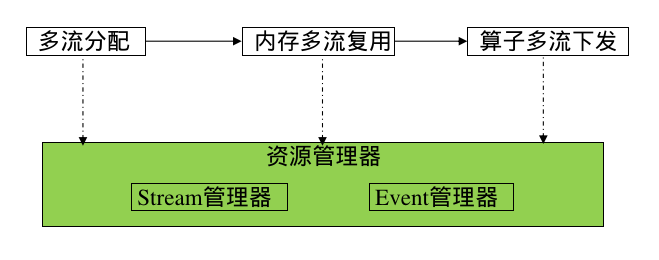
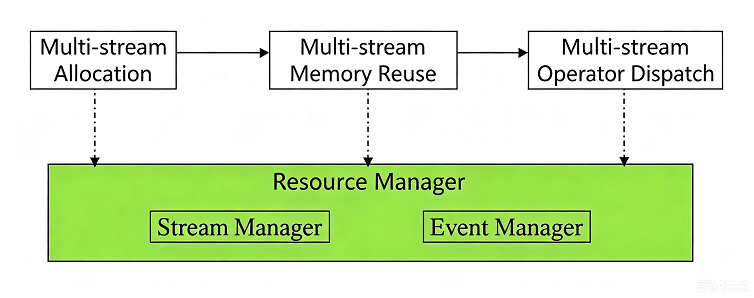
update en images

diff --git a/docs/mindspore/source_en/features/parallel/pipeline_parallel.md b/docs/mindspore/source_en/features/parallel/pipeline_parallel.md
@@ -26,7 +26,7 @@ Pipeline parallel is the splitting of operators in a neural network into multipl
 
 As shown in Figure 1, the network of 4 layers of MatMul is split into 4 stages and distributed to 4 devices. In forward calculations, each machine sends the result to the next machine through the communication operator after calculating the MatMul on the machine, and at the same time, the next machine receives (Receive) the MatMul result of the previous machine through the communication operator, and starts to calculate the MatMul on the machine; In reverse calculation, after the gradient of the last machine is calculated, the result is sent to the previous machine, and at the same time, the previous machine receives the gradient result of the last machine and begins to calculate the reverse of the current machine.
 
-![](https://mindspore-website.obs.cn-north-4.myhuaweicloud.com/website-images/master/docs/mindspore/source_zh_cn/features/parallel/images/pipeline_parallel_image_0_zh.png)
+![](images/pipeline_parallel_image_0.png)
 
 *Figure 1: Schematic diagram of graph splitting in pipeline parallel*
 
@@ -36,7 +36,7 @@ Simply splitting the model onto multiple devices does not bring about a performa
 
 As shown in Figure 2. The small batches are cut into 4 micro-batches, and the 4 micro-batches are executed on 4 groups to form a pipeline. The gradient aggregation of the micro-batch is used to update the parameters, where each device only stores and updates the parameters of the corresponding group. where the white ordinal number represents the index of the micro-batch.
 
-![](https://mindspore-website.obs.cn-north-4.myhuaweicloud.com/website-images/master/docs/mindspore/source_zh_cn/features/parallel/images/pipeline_parallel_image_1_zh.png)
+![](images/pipeline_parallel_image_1.png)
 
 *Figure 2: Schematic diagram of a pipeline parallel execution timeline with MicroBatch*
 
@@ -46,7 +46,7 @@ In MindSpore's pipeline parallel implementation, the execution order has been ad
 
 As shown in Figure 3, the reverse of the MicroBatch numbered 0 is performed immediately after its forward execution, so that the memory of the intermediate result of the numbered 0 MicroBatch is freed earlier (compared to Figure 2), thus ensuring that the peak memory usage is lower than in the way of Figure 2.
 
-![](https://mindspore-website.obs.cn-north-4.myhuaweicloud.com/website-images/master/docs/mindspore/source_zh_cn/features/parallel/images/pipeline_parallel_image_2_zh.png)
+![](images/pipeline_parallel_image_2.png)
 
 *Figure 3: MindSpore Pipeline Parallel Execution Timeline Diagram*
 
